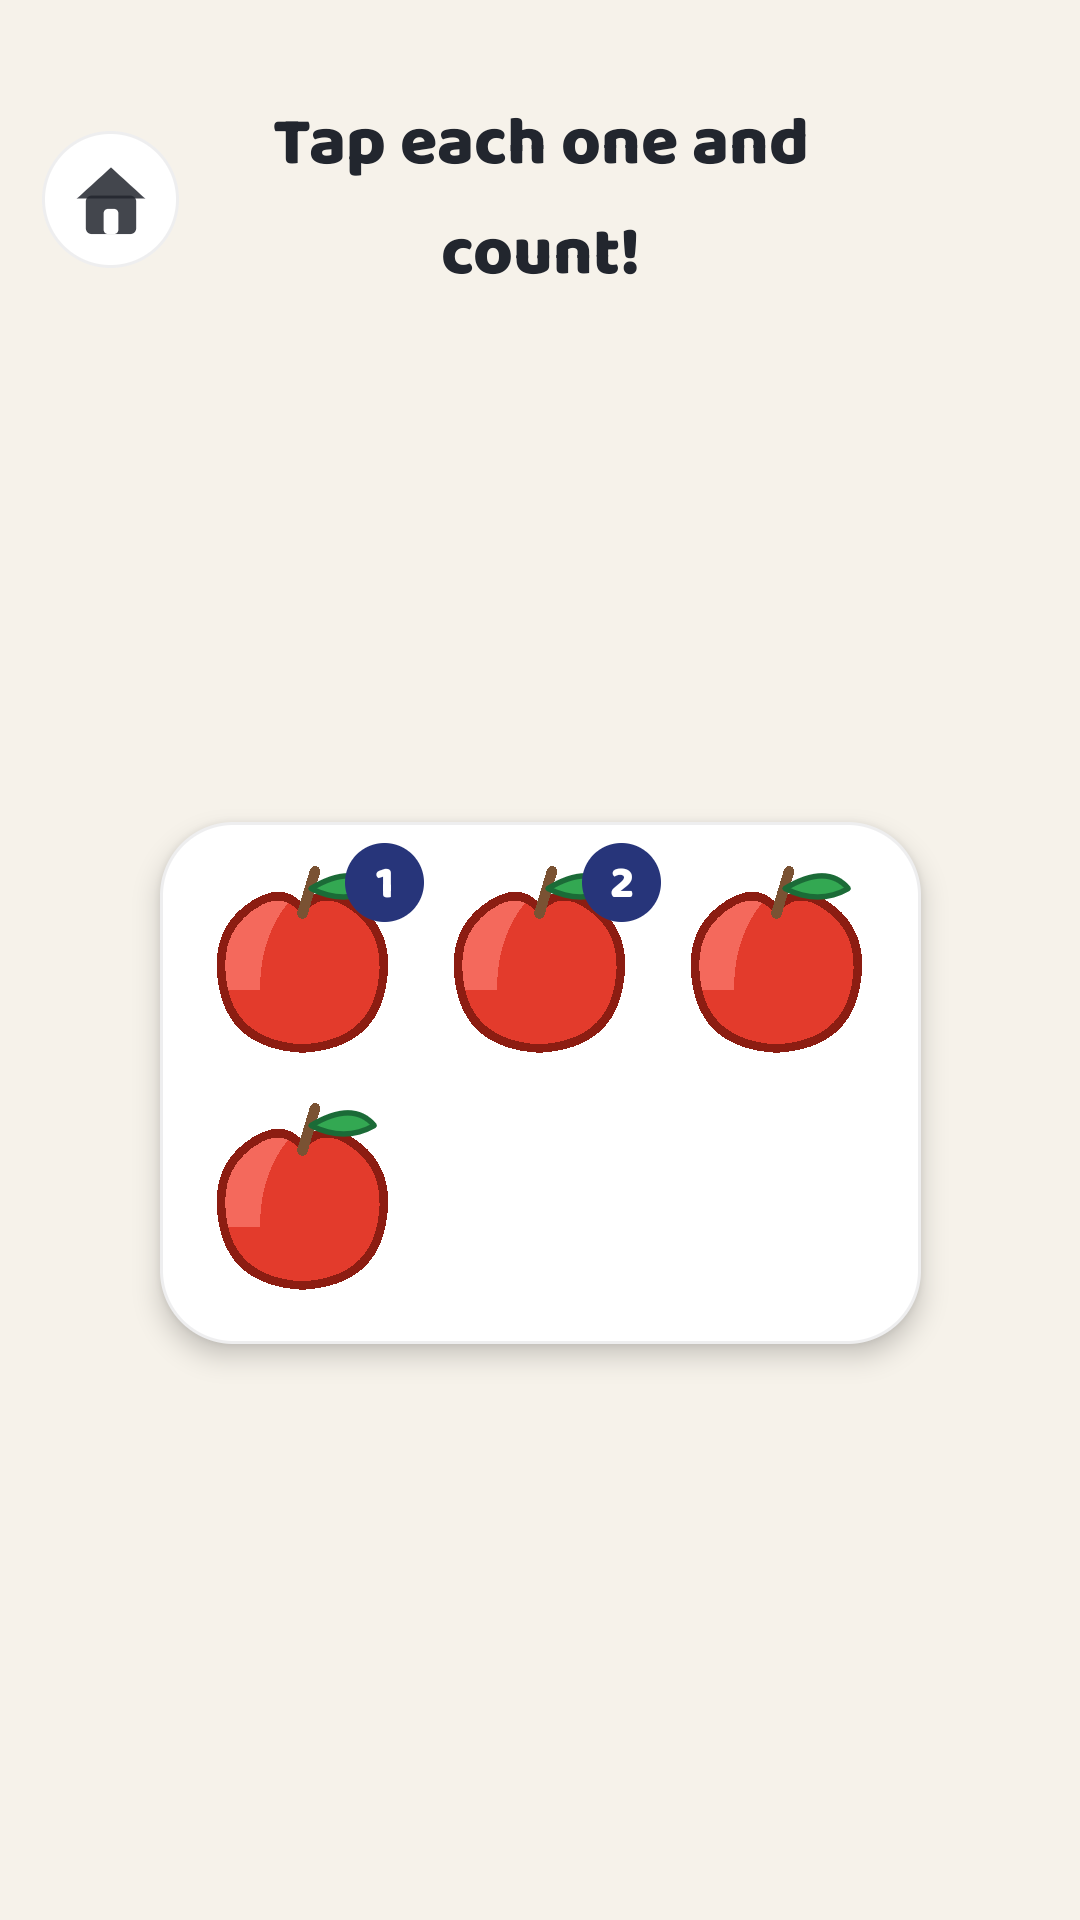
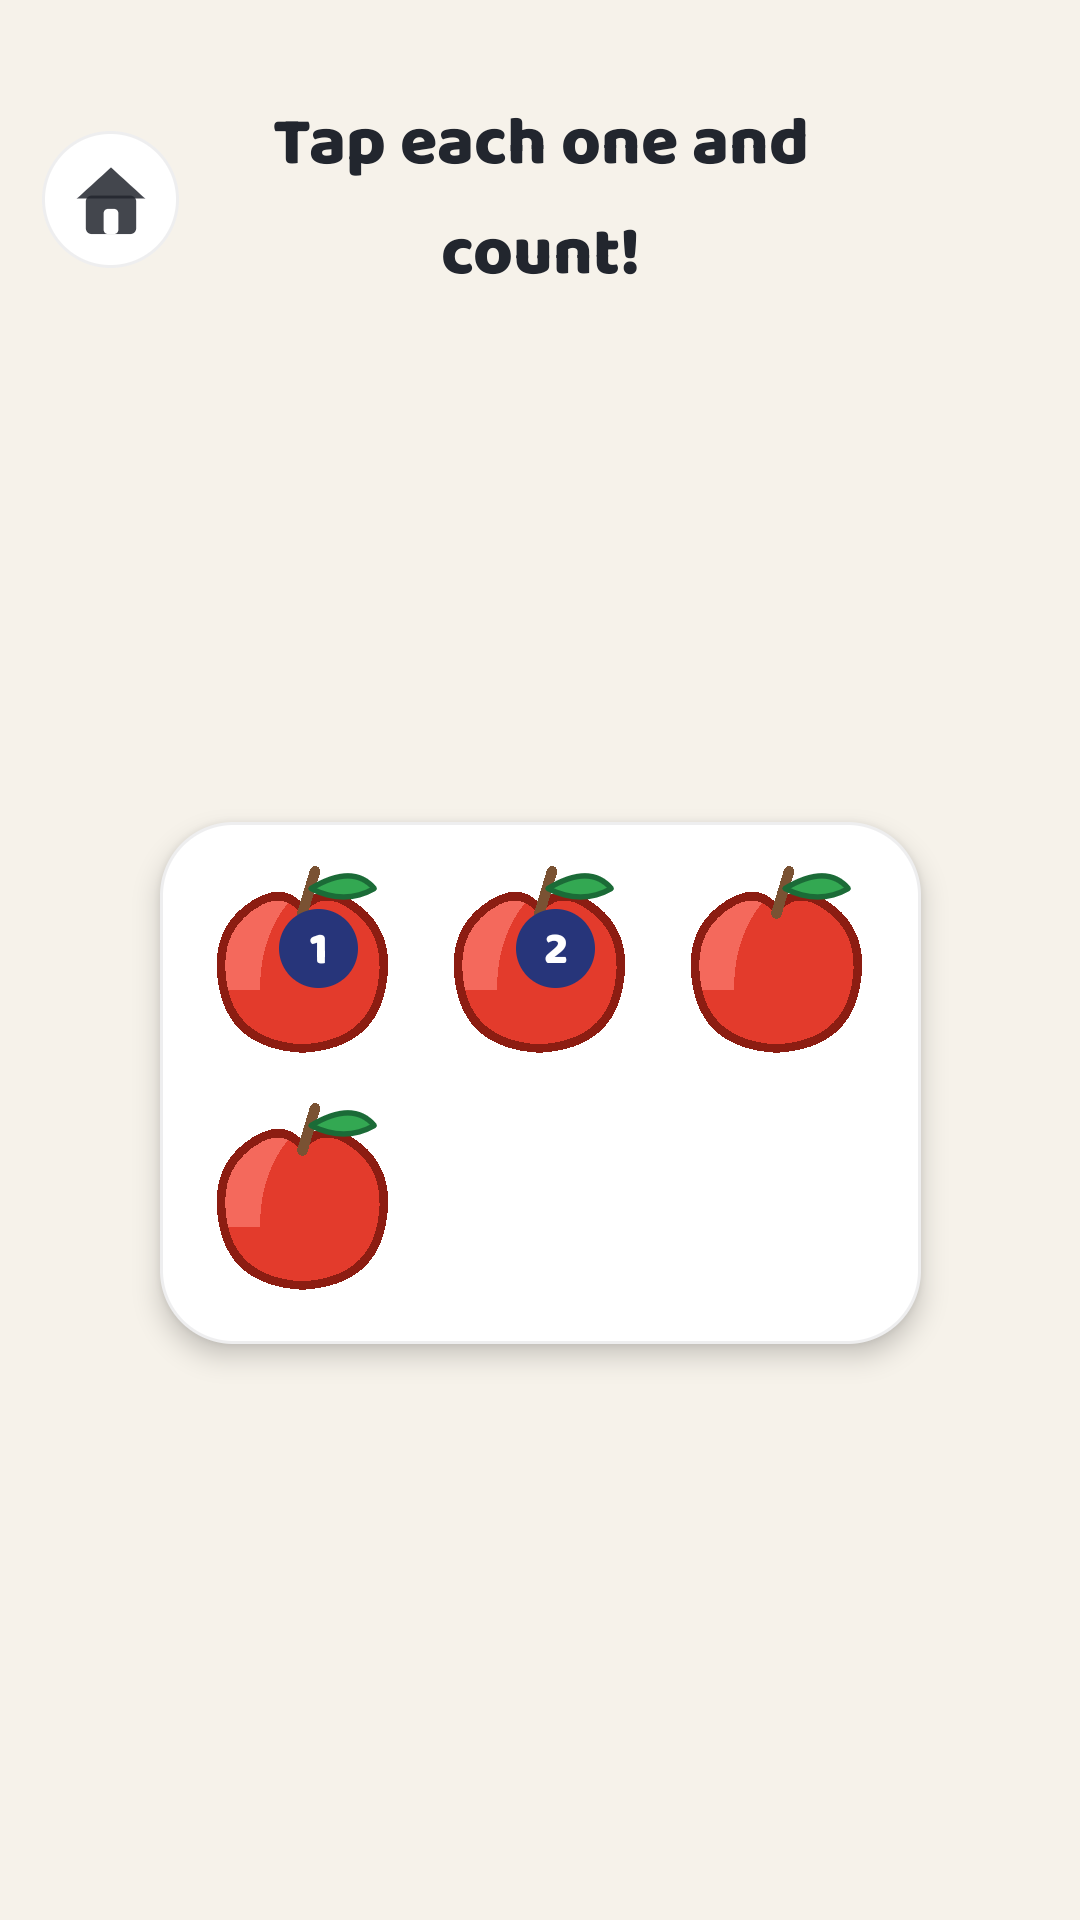
Seat the popping chip back at the object's top-right
Wrapping the chip in PopIn made the pop's own box the chip's layout
parent, so its top-end alignment went nowhere and every count chip
drifted to the object's centre. PopIn now takes the placement modifier
from outside, the way the pop should: it animates, it does not lay out.

Changed region(s): [[0.2444, 0.4375, 0.3972, 0.5312], [0.4583, 0.4375, 0.6111, 0.5312]]

diff --git a/app/src/main/java/app/maqsadah/count_and_play/ui/Objects.kt b/app/src/main/java/app/maqsadah/count_and_play/ui/Objects.kt
@@ -137,10 +137,11 @@ private fun CountableContent(shape: ShapeKind, sizeDp: Dp, seat: Color?, chip: S
         if (chip != null) {
             val dia = chipDiameter(sizeDp)
             // The chip lands with its own little pop: his tap made a number
-            // exist, and the number celebrates that too.
+            // exist, and the number celebrates that too. The pop wraps the
+            // chip from outside, so the chip keeps its top-right seat.
             key(chip) {
-                PopIn {
-                    CountChip(chip, dia, Modifier.align(Alignment.TopEnd).offset(x = dia * 0.2f, y = -dia * 0.2f))
+                PopIn(Modifier.align(Alignment.TopEnd).offset(x = dia * 0.2f, y = -dia * 0.2f)) {
+                    CountChip(chip, dia)
                 }
             }
         }

diff --git a/app/src/main/java/app/maqsadah/count_and_play/ui/Motion.kt b/app/src/main/java/app/maqsadah/count_and_play/ui/Motion.kt
@@ -93,13 +93,13 @@ fun StaggerIn(index: Int, content: @Composable () -> Unit) {
 
 /** A taken piece or a fresh chip lands with a springy pop; reduced motion snaps. */
 @Composable
-internal fun PopIn(content: @Composable () -> Unit) {
+internal fun PopIn(modifier: Modifier = Modifier, content: @Composable () -> Unit) {
     val reducedMotion = rememberReducedMotion()
     val scale = remember { Animatable(if (reducedMotion) 1f else 0.3f) }
     LaunchedEffect(reducedMotion) {
         if (!reducedMotion && scale.value < 1f) scale.animateTo(1f, PopInSpring)
     }
-    Box(Modifier.graphicsLayer { scaleX = scale.value; scaleY = scale.value }) { content() }
+    Box(modifier.graphicsLayer { scaleX = scale.value; scaleY = scale.value }) { content() }
 }
 
 private val PopInSpring = spring<Float>(
